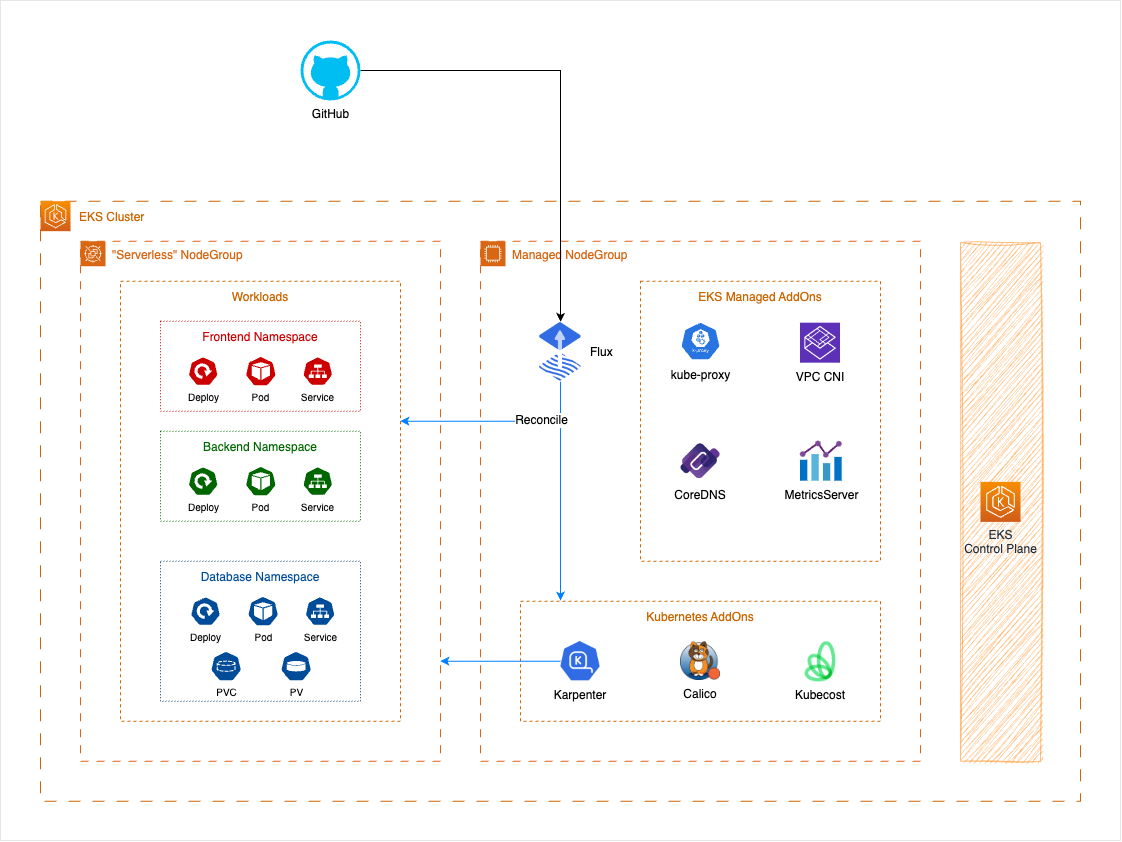
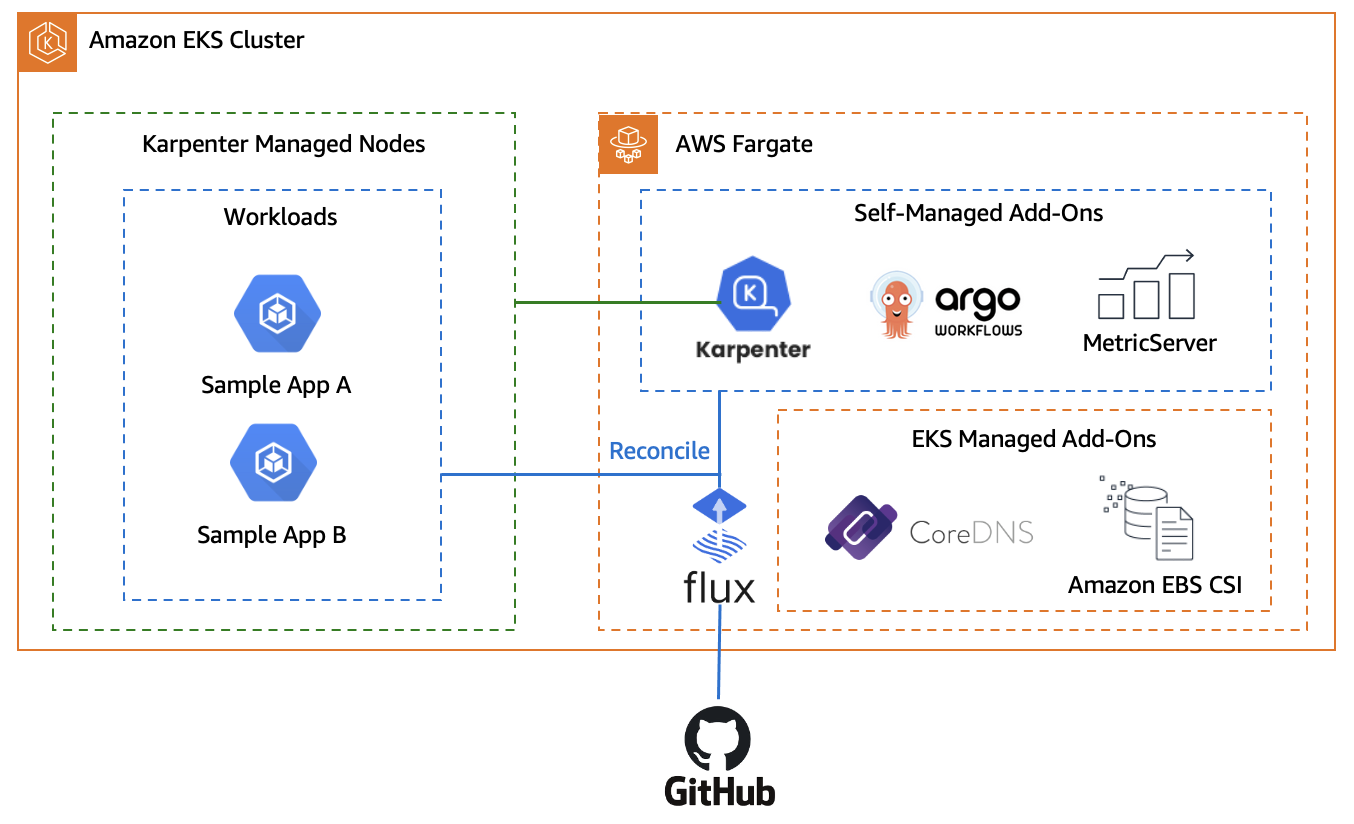
Added Argo Workflows description to intro

diff --git a/website/docs/00-intro.md b/website/docs/00-intro.md
@@ -31,14 +31,17 @@ Amazon EKS is committed to supporting at least four production-ready versions of
 
 ## About the workshop
 
-The Amazon cluster upgrades workshop is built to provide you with a reference architecture that can help make your Amazon EKS Cluster upgrades **less painful and more seamless**. To achieve this, we will use a `GitOps` strategy with` Fluxv2` for components reconciliation and `Karpenter` for Node Scaling.
+The Amazon cluster upgrades workshop is built to provide you with a reference architecture that can help make your Amazon EKS Cluster upgrades **less painful and more seamless**. To achieve this, we will use a `GitOps` strategy with` Fluxv2` for components reconciliation, `Karpenter` for Node Scaling along with `AWS Fargate` for the addons, and `Argo Workflows` to validate what has to be changed before running the upgrade.
 
 
 ## Workshop architecture
 
-One of the key benefits of using `GitOps` is that it enables us to use a `mono repository` approach for deploying both add-ons and applications. This approach makes the upgrade process much smoother because we have a single location to look at for deprecated API versions and ensure that add-ons are backwards compatible.
+The base architecture that is composed by `Amazon EKS Cluster`, `EKS Managed Add-ons` and `Flux` that are deployed with Terraform.
+
+`Flux` enables us to use a `mono repository` approach for deploying both `Self-Managed Add-Ons` and `Apps`. 
+This approach makes the upgrade process much smoother because we have a single location to look at for deprecated API versions and ensure that add-ons are backwards compatible.
 
 ![EKS Architecture](../static/img/eks-upgrades-architecture.png)
 
-By the end of this workshop, you will have a solid understanding of how to use `GitOps with Fluxv2` and `Karpenter` to simplify the EKS Cluster upgrade process. We hope that this will help you streamline your workflow and ensure that your infrastructure is always up-to-date and functioning smoothly. So, let's dive in and get started!
+During the next steps of this workshop, you learn how to setup those components and gain a solid understanding of how to use `GitOps with Fluxv2`, `Karpenter`, and `Argo Workflows` to simplify the EKS Cluster upgrade process. We hope that this will help you streamline your workflow and ensure that your infrastructure is always up-to-date and functioning smoothly. So, let's dive in and get started!
 

diff --git a/website/docs/01-environment.md b/website/docs/01-environment.md
@@ -24,4 +24,5 @@ The above Cloudformation script will provision a `Cloud9` with all the required 
 :::tip
 Wait at least `20 minutes` before moving on, this will give time to Cloudformation and SSM finishes its deploy. Might be a good time for a break.
 
+Only proceed after the Amazon EKS cluster is created. [Check here!](https://console.aws.amazon.com/eks/home)
 :::
